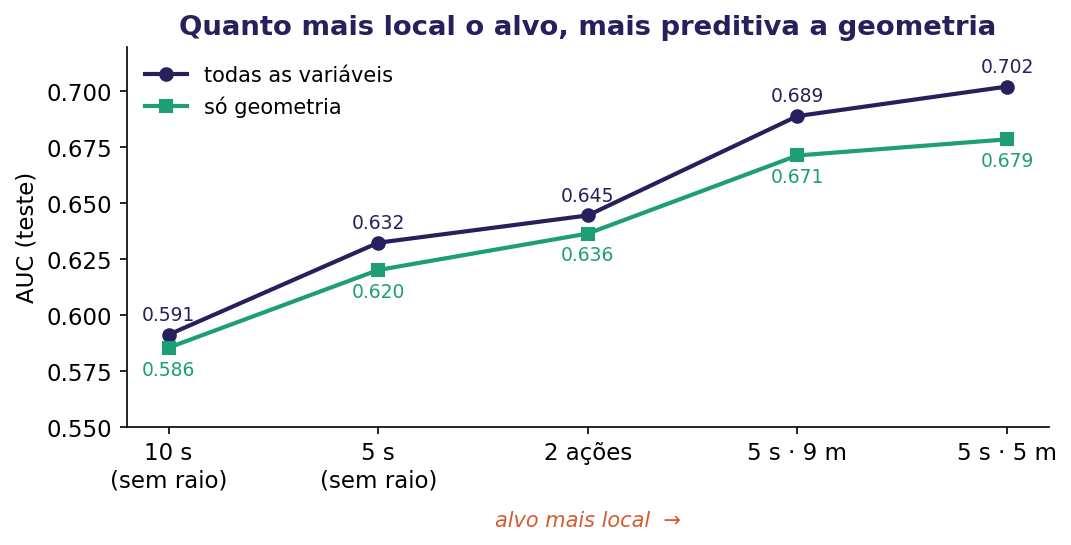
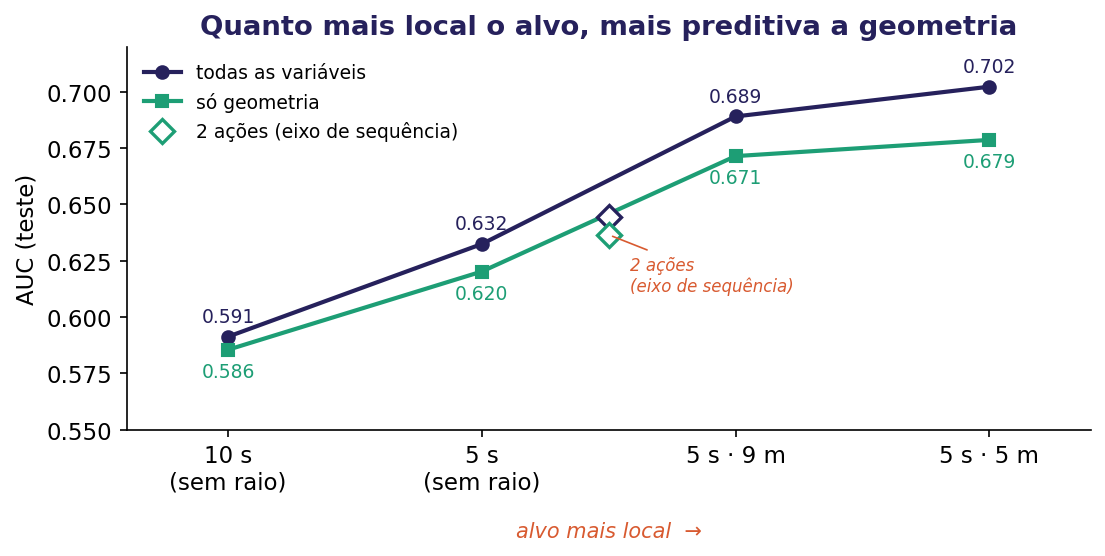
Changes in ladder graphic

diff --git a/src/xR_experiments/make_ladder_fig.py b/src/xR_experiments/make_ladder_fig.py
@@ -1,7 +1,8 @@
 # -*- coding: utf-8 -*-
-"""make_ladder_fig.py — figura da DOSE-RESPOSTA: AUC (todas as variaveis) e AUC (so geometria)
-ao longo da escada de alvos, ordenados do mais frouxo ao mais local. Mostra que a geometria fica
-mais preditiva conforme o alvo localiza. Le star_analysis/target_ladder.csv.
+"""make_ladder_fig.py — figura da DOSE-RESPOSTA: AUC (todas as variaveis) e AUC (so geometria).
+LINHA PRINCIPAL = eixos naturais de localidade do alvo (tempo -> espaco), 1 variavel por passo.
+O alvo por SEQUENCIA (2 acoes), de eixo distinto, e exibido A PARTE como ponto corroborativo.
+Mostra que a geometria fica mais preditiva conforme o alvo localiza. Le star_analysis/target_ladder.csv.
 Saida: paper/figs/fig_ladder.png. Uso: ./venv1/Scripts/python.exe src/xR_experiments/make_ladder_fig.py
 """
 import os
@@ -15,24 +16,36 @@ NAVY, TEAL, TERRA = '#26215C', '#1D9E75', '#D85A30'
 plt.rcParams.update({'font.size': 11, 'axes.spines.top': False, 'axes.spines.right': False})
 
 df = pd.read_csv('star_analysis/target_ladder.csv').set_index('alvo')
-order = ['y_10s', 'y_5s', 'y_2act', 'y_5s_9m', 'y_5s_5m']
-labels = ['10 s\n(sem raio)', '5 s\n(sem raio)', '2 ações', '5 s · 9 m', '5 s · 5 m']
-all_auc = [df.loc[t, 'AUC_all'] for t in order]
-geom = [df.loc[t, 'AUC_geom'] for t in order]
+# LINHA PRINCIPAL: eixos naturais de localidade (tempo -> espaco), 1 variavel por passo
+main = ['y_10s', 'y_5s', 'y_5s_9m', 'y_5s_5m']
+labels = ['10 s\n(sem raio)', '5 s\n(sem raio)', '5 s · 9 m', '5 s · 5 m']
+all_auc = [df.loc[t, 'AUC_all'] for t in main]
+geom = [df.loc[t, 'AUC_geom'] for t in main]
+x = list(range(len(main)))
 
-fig, ax = plt.subplots(figsize=(7.2, 3.9))
-x = range(len(order))
+fig, ax = plt.subplots(figsize=(7.4, 4.0))
 ax.plot(x, all_auc, '-o', color=NAVY, lw=2, label='todas as variáveis')
 ax.plot(x, geom, '-s', color=TEAL, lw=2, label='só geometria')
 for xi, v in zip(x, all_auc):
     ax.annotate('%.3f' % v, (xi, v), textcoords='offset points', xytext=(0, 7), ha='center', fontsize=9, color=NAVY)
 for xi, v in zip(x, geom):
     ax.annotate('%.3f' % v, (xi, v), textcoords='offset points', xytext=(0, -13), ha='center', fontsize=9, color=TEAL)
-ax.set_xticks(list(x)); ax.set_xticklabels(labels)
+
+# y_2act: eixo DIFERENTE (sequencia, sem teto de m/s) -> ponto solto, NAO conectado a linha
+x2 = 1.5
+a2, g2 = df.loc['y_2act', 'AUC_all'], df.loc['y_2act', 'AUC_geom']
+ax.plot([x2], [a2], marker='D', mfc='white', mec=NAVY, mew=1.6, ms=8, ls='none')
+ax.plot([x2], [g2], marker='D', mfc='white', mec=TEAL, mew=1.6, ms=8, ls='none',
+        label='2 ações (eixo de sequência)')
+ax.annotate('2 ações\n(eixo de sequência)', (x2, g2), textcoords='offset points',
+            xytext=(10, -27), ha='left', fontsize=8, color=TERRA, style='italic',
+            arrowprops=dict(arrowstyle='-', color=TERRA, lw=0.8))
+
+ax.set_xticks(x); ax.set_xticklabels(labels); ax.set_xlim(-0.4, 3.4)
 ax.set_ylim(0.55, 0.72); ax.set_ylabel('AUC (teste)')
 ax.set_title('Quanto mais local o alvo, mais preditiva a geometria', color=NAVY, weight='bold')
-ax.annotate('alvo mais local  →', xy=(0.5, -0.26), xycoords='axes fraction', ha='center', fontsize=10, color=TERRA, style='italic')
-ax.legend(loc='upper left', frameon=False, fontsize=10)
+ax.annotate('alvo mais local  →', xy=(0.5, -0.28), xycoords='axes fraction', ha='center', fontsize=10, color=TERRA, style='italic')
+ax.legend(loc='upper left', frameon=False, fontsize=9)
 fig.tight_layout()
 fig.savefig('paper/figs/fig_ladder.png', dpi=150, bbox_inches='tight'); plt.close(fig)
 print('salvo: paper/figs/fig_ladder.png')

diff --git a/paper/artigo-xR.tex b/paper/artigo-xR.tex
@@ -197,12 +197,12 @@ CNN multicanal (estilo SoccerMap) & 0,593 \\
 \end{table}
 
 \subsection{O alvo e o sinal geométrico: uma relação dose-resposta}
-O alvo com restrição espacial (recuperar em $\le$5\,s e a $\le$5\,m) foi proposto por \citet{lee2025express} e ecoa convenções táticas (raio de pressão; regra dos 5--6\,s). Nossa contribuição não é o alvo, e sim \textbf{mostrar e explicar} por que ele funciona. A Figura~\ref{fig:ladder} revela uma \textbf{relação dose-resposta}: tanto a AUC quanto a \emph{AUC só-geometria} \textbf{crescem monotonicamente} conforme o alvo é localizado (geometria: 0,586 $\to$ 0,679; sub-escada espacial a 5\,s: 0,620 $\to$ 0,671 $\to$ 0,679). O mecanismo é a remoção de \textbf{ruído de rótulo}: \textbf{76\% das recuperações em $\le$10\,s ocorrem a $>$5\,m ou $>$5\,s} do ponto de pressão (mediana 13\,m), dificilmente causadas por aquela pressão; localizar o alvo as descarta e \emph{recupera} o sinal geométrico real.
+O alvo com restrição espacial (recuperar em $\le$5\,s e a $\le$5\,m) foi proposto por \citet{lee2025express} e ecoa convenções táticas (raio de pressão; regra dos 5--6\,s). Nossa contribuição não é o alvo, e sim \textbf{mostrar e explicar} por que ele funciona. A Figura~\ref{fig:ladder} revela uma \textbf{relação dose-resposta} ao longo dos \textbf{eixos naturais de localidade} do alvo --- \emph{tempo} (10\,s $\to$ 5\,s) e \emph{espaço} (sem raio $\to$ 9\,m $\to$ 5\,m), apertando \emph{uma} dimensão por passo: a \emph{AUC só-geometria} \textbf{cresce monotonicamente} de 0,586 a 0,679 (todas as variáveis, de 0,591 a 0,702). Um alvo baseado em \emph{sequência} (recuperar em $\le$2 ações) --- eixo distinto, sem teto direto de metros ou segundos --- também cai sobre o gradiente (só-geometria 0,637) e por isso é exibido \textbf{à parte} na figura: corrobora que o efeito independe de \emph{como} se mede a localidade. O mecanismo é a remoção de \textbf{ruído de rótulo}: \textbf{76\% das recuperações em $\le$10\,s ocorrem a $>$5\,m ou $>$5\,s} do ponto de pressão (mediana 13\,m), dificilmente causadas por aquela pressão; localizar o alvo as descarta e \emph{recupera} o sinal geométrico real.
 
 \begin{figure}[ht]
 \centering
 \includegraphics[width=0.74\textwidth]{figs/fig_ladder.png}
-\caption{Relação dose-resposta: a AUC (todas as variáveis) e a AUC só-geometria crescem conforme o alvo de recuperação é localizado no espaço e no tempo. O ganho vem do alvo, não da arquitetura (Tabela~\ref{tab:plateau}).}
+\caption{Relação dose-resposta ao longo dos eixos de tempo e espaço (linha principal); o alvo por sequência ($\le$2 ações), de eixo distinto, é mostrado à parte como ponto corroborativo. O ganho vem do alvo, não da arquitetura (Tabela~\ref{tab:plateau}).}
 \label{fig:ladder}
 \end{figure}
 